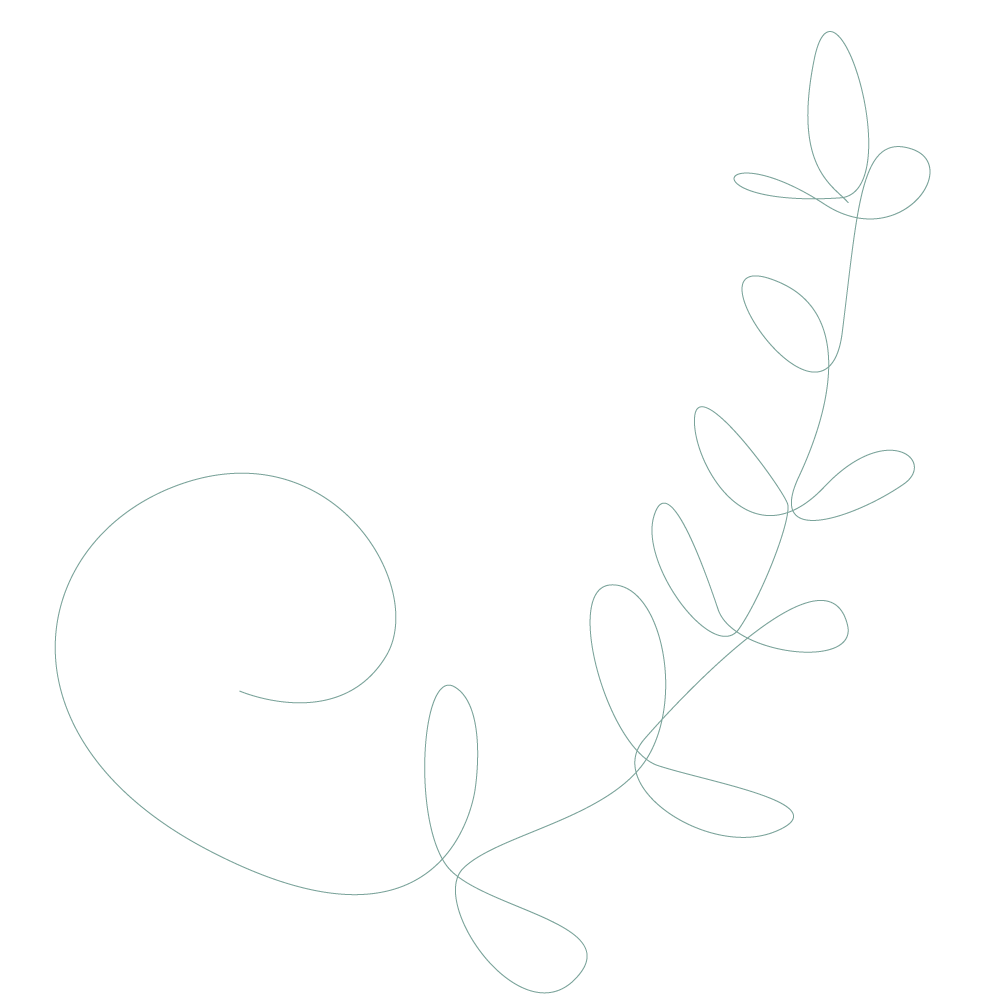
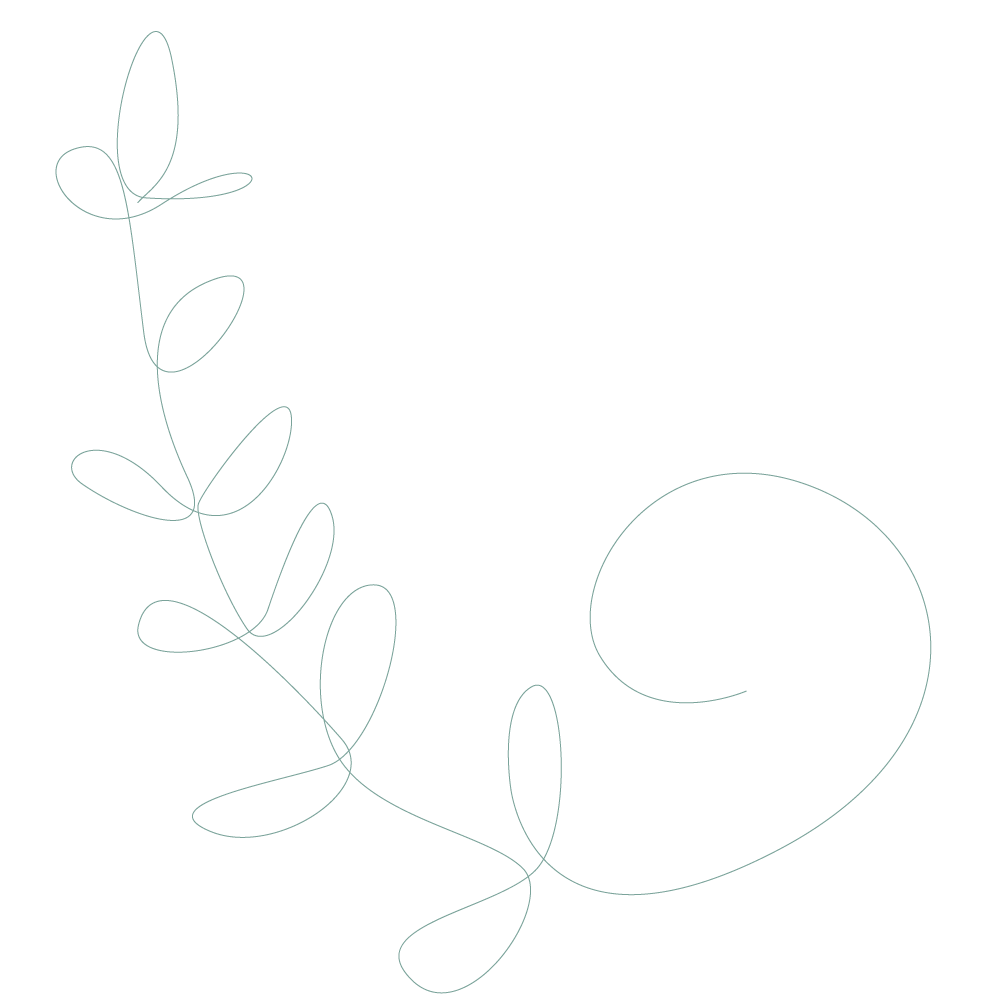
landing background changes

diff --git a/styles/custom/scss/main.scss b/styles/custom/scss/main.scss
@@ -22,7 +22,8 @@ section[id] {
 		background-size: contain;
 		background-repeat: no-repeat;
 		background-size: 800px;
-		background-position: bottom center;
+		background-position: right;
+		background-attachment:fixed ;
 		//background-size: cover;
 		display: flex;
 		flex-direction: column;
@@ -33,10 +34,13 @@ section[id] {
 		position: relative;
 		overflow: hidden;
 		background-position-y: 150% !important;
+		background-position-x: 95% !important;
 		
 		@include bp(m) {
-			background-position-y: 250% !important;
-			background-size: 1100px;
+			background-position-y: 180% !important;
+			background-position-x: 185% !important;
+			//background-position-y: 250% !important;
+			background-size: 1000px;
 			padding-top: $header-height;
 			//justify-content: center;
 		}